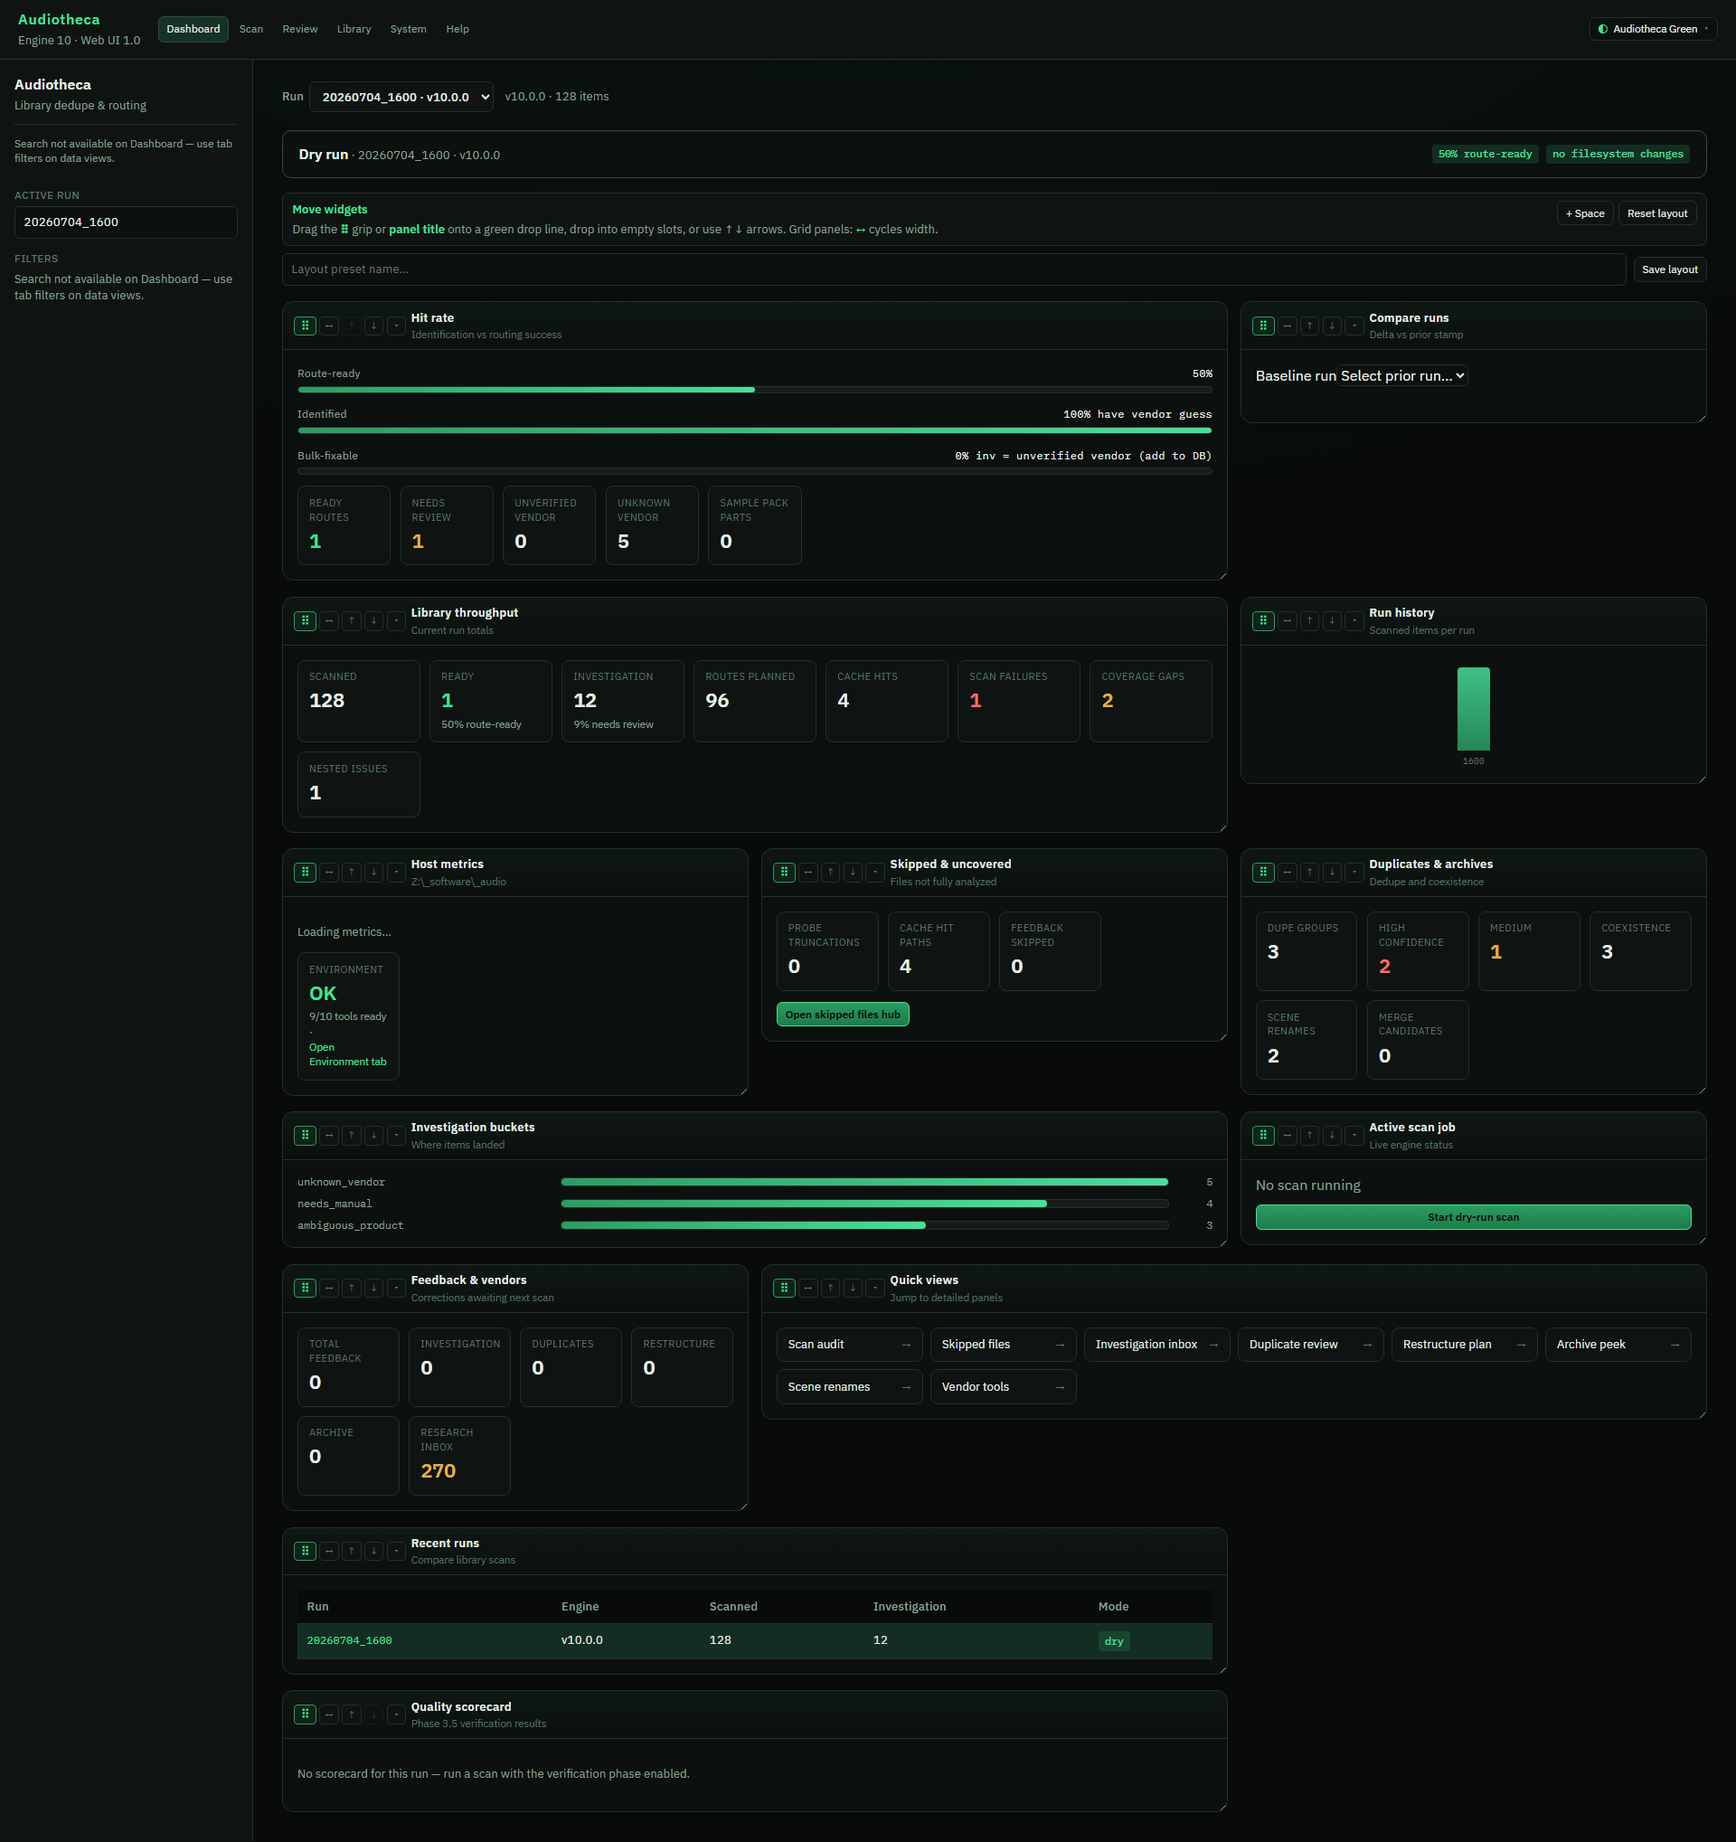
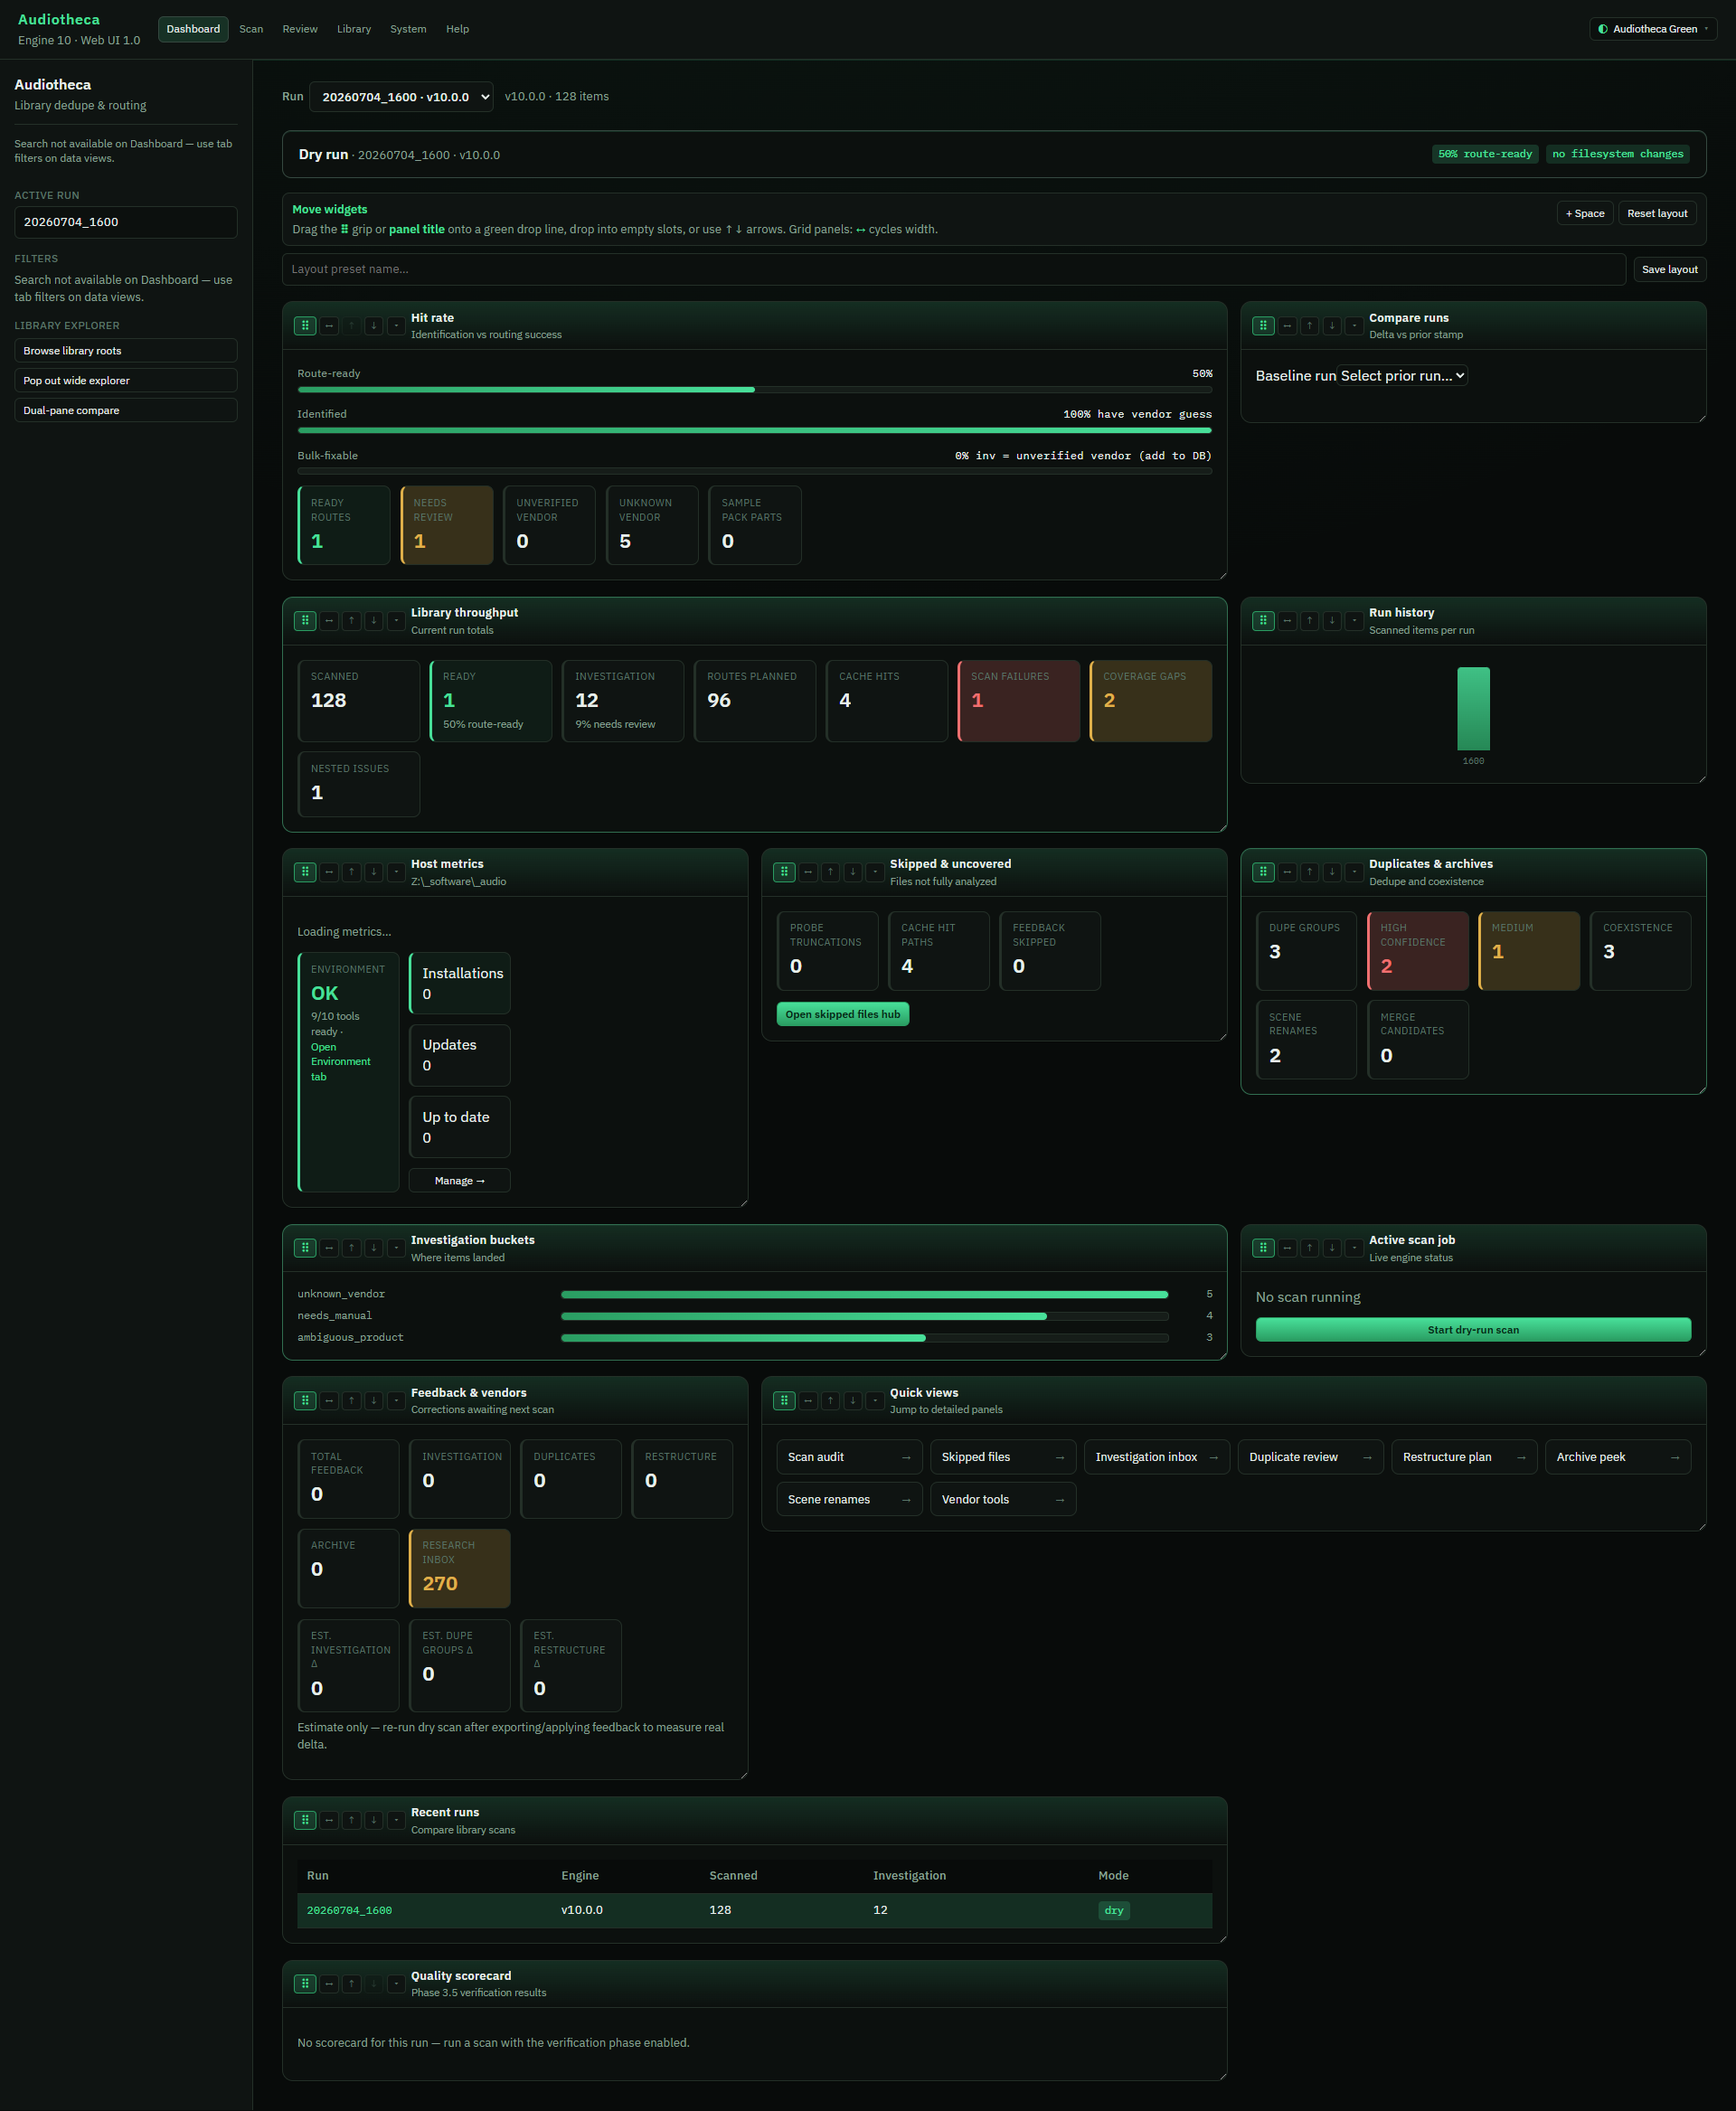
Release 1.0.1: refreshed docs, screenshots, and help media
Fix Playwright capture to use bundled Chromium only; re-capture all UI screenshots and sync help assets for theme and library explorer updates.

diff --git a/scripts/capture_doc_assets.py b/scripts/capture_doc_assets.py
@@ -622,31 +622,76 @@ EDGE_PATHS = [
 ]
 
 
+def _playwright_browsers_roots() -> list[Path]:
+    """Directories where `playwright install` may place browser builds."""
+    roots: list[Path] = []
+    env_root = os.environ.get("PLAYWRIGHT_BROWSERS_PATH", "").strip()
+    if env_root:
+        roots.append(Path(env_root))
+    if sys.platform == "win32":
+        local = Path(os.environ.get("LOCALAPPDATA", ""))
+        if local:
+            roots.append(local / "ms-playwright")
+        temp = Path(os.environ.get("TEMP", ""))
+        if temp:
+            roots.extend(sorted(temp.glob("cursor-sandbox-cache/*/playwright")))
+    elif sys.platform == "darwin":
+        roots.append(Path.home() / "Library" / "Caches" / "ms-playwright")
+    else:
+        roots.append(Path.home() / ".cache" / "ms-playwright")
+    return roots
+
+
 def _playwright_chromium_path() -> Path | None:
     """Resolve Playwright-bundled Chromium (avoids Edge channel headless failures on CI)."""
     env_path = os.environ.get("PLAYWRIGHT_CHROMIUM_EXECUTABLE_PATH", "").strip()
     if env_path and Path(env_path).is_file():
         return Path(env_path)
     if sys.platform == "win32":
-        local = Path(os.environ.get("LOCALAPPDATA", ""))
-        candidates = sorted(local.glob("ms-playwright/chromium-*/chrome-win/chrome.exe"))
-        if candidates:
-            return candidates[-1]
+        patterns = (
+            "chromium-*/chrome-win64/chrome.exe",
+            "chromium-*/chrome-win/chrome.exe",
+            "chromium_headless_shell-*/chrome-headless-shell-win64/chrome-headless-shell.exe",
+        )
     elif sys.platform == "darwin":
-        home = Path.home()
-        candidates = sorted(home.glob("Library/Caches/ms-playwright/chromium-*/chrome-mac/Chromium.app/Contents/MacOS/Chromium"))
-        if candidates:
-            return candidates[-1]
+        patterns = (
+            "chromium-*/chrome-mac/Chromium.app/Contents/MacOS/Chromium",
+            "chromium_headless_shell-*/chrome-headless-shell-mac/chrome-headless-shell",
+        )
     else:
-        home = Path.home()
-        candidates = sorted(home.glob(".cache/ms-playwright/chromium-*/chrome-linux/chrome"))
-        if candidates:
-            return candidates[-1]
+        patterns = (
+            "chromium-*/chrome-linux/chrome",
+            "chromium_headless_shell-*/chrome-headless-shell-linux/chrome-headless-shell",
+        )
+    for root in _playwright_browsers_roots():
+        if not root.is_dir():
+            continue
+        for pattern in patterns:
+            candidates = sorted(root.glob(pattern))
+            if candidates:
+                return candidates[-1]
     return None
+
+
+def _ensure_playwright_chromium() -> None:
+    """Download bundled Chromium when missing (Playwright default cache path)."""
+    if _playwright_chromium_path() is not None:
+        return
+    print("Installing Playwright Chromium (one-time download)...", flush=True)
+    env = os.environ.copy()
+    if sys.platform == "win32" and not env.get("PLAYWRIGHT_BROWSERS_PATH"):
+        env["PLAYWRIGHT_BROWSERS_PATH"] = str(
+            Path(os.environ.get("LOCALAPPDATA", "")) / "ms-playwright"
+        )
+    subprocess.check_call(
+        [sys.executable, "-m", "playwright", "install", "chromium"],
+        env=env,
+    )
 
 
 def _browser_launch_kwargs() -> dict[str, object]:
     """Prefer Playwright-bundled Chromium (Edge channel fails headless on some CI hosts)."""
+    _ensure_playwright_chromium()
     chromium = _playwright_chromium_path()
     if chromium:
         return {"headless": True, "executable_path": str(chromium)}
@@ -749,7 +794,7 @@ def capture() -> None:
             # File explorer screenshot — after archives; close explorer when done
             dismiss_explorer()
             click_tab("investigation")
-            page.get_by_role("button", name="Library", exact=False).click()
+            page.locator("button.top-tab-library").click()
             page.wait_for_timeout(1500)
             explorer = page.locator(".file-explorer-shell").first
             if explorer.count():
@@ -779,7 +824,7 @@ def capture() -> None:
                     _click_tab(vpage, tab_id)
                     vpage.wait_for_timeout(1600)
                 if "file-explorer" in video_name:
-                    vpage.get_by_role("button", name="Library", exact=False).click()
+                    vpage.locator("button.top-tab-library").click()
                     vpage.wait_for_timeout(2000)
                     vpage.keyboard.press("Escape")
                 vpage.close()

diff --git a/scripts/capture_screenshots_only.py b/scripts/capture_screenshots_only.py
@@ -114,7 +114,7 @@ def main() -> None:
 
         dismiss_explorer()
         click_tab("investigation")
-        page.get_by_role("button", name="Library", exact=False).click()
+        page.locator("button.top-tab-library").click()
         page.wait_for_timeout(1500)
         explorer = page.locator(".file-explorer-shell").first
         if explorer.count():

diff --git a/docs/USER_GUIDE.md b/docs/USER_GUIDE.md
@@ -1,6 +1,6 @@
 # Audiotheca — Quick User Guide
 
-Engine **10.0.0** · Web UI **1.0.0**
+Engine **10.0.0** · Web UI **1.0.1**
 
 **New here?** Read the [main README](../README.md) for overview, screenshots, and video placeholders.
 
@@ -100,7 +100,7 @@ Always review `Run_Summary_*.txt` before any live run.
 
 | Tab | What you do |
 | --- | --- |
-| **Dashboard** | Pick run, route-ready / identification gauges, compare runs, reorder panels |
+| **Dashboard** | Works before first scan — host metrics, environment health, quick links; pick run for route-ready gauges and compare runs |
 | **Scan** | Start dry-run; **Processing flow** presets; live WebSocket progress; **AI lookup** panel |
 | **Investigation** | Filter buckets, bulk correct, group by prefix, export feedback |
 | **Duplicates** | Pick keeper, reject bad groups, preview/stage deletes, manual dupes |
@@ -117,9 +117,9 @@ Always review `Run_Summary_*.txt` before any live run.
 
 Most tabs support **drag-to-reorder sections** (Dashboard, Scan, and others); preferences persist in browser localStorage.
 
-**File explorer:** click **Browse** on any path link to open the in-app folder/archive browser (engine 10.0+).
+**File explorer:** open **Library** from the top bar, or click **Browse** on any path link. Use **Pop out wide panel** in the sidebar for full-width review; dual-pane compare on two folders.
 
-**Themes:** use the ◐ selector in the top bar, or **Environment → Themes** for custom palettes.
+**Themes:** use the ◐ selector in the top bar, or **Environment → Themes** for custom palettes. Buttons and accents follow the active theme (no hardcoded green).
 
 Decisions save to `dedupe_reports/decisions/approved_{stamp}.json` and `dedupe_reports/feedback/`.
 

diff --git a/docs/assets/ASSETS.md b/docs/assets/ASSETS.md
@@ -2,6 +2,17 @@
 
 Use this table when preparing documentation assets. Each row must exist at the listed path before the README media sections show real content.
 
+**Last refreshed:** 2026-07-05 (Web UI 1.0.1 — theme fixes, dashboard without run, library pop-out). Re-capture with demo API/UI running:
+
+```powershell
+$env:AUDIOTHECA_CAPTURE_UI_PORT="5175"
+$env:AUDIOTHECA_CAPTURE_API_PORT="8788"
+python scripts/capture_screenshots_only.py
+python scripts/build_doc_gifs.py
+```
+
+Playwright uses bundled Chromium only (`scripts/capture_doc_assets.py` — no Edge channel).
+
 ## Screenshots
 
 | Status | Path | Alt text (for README) |
